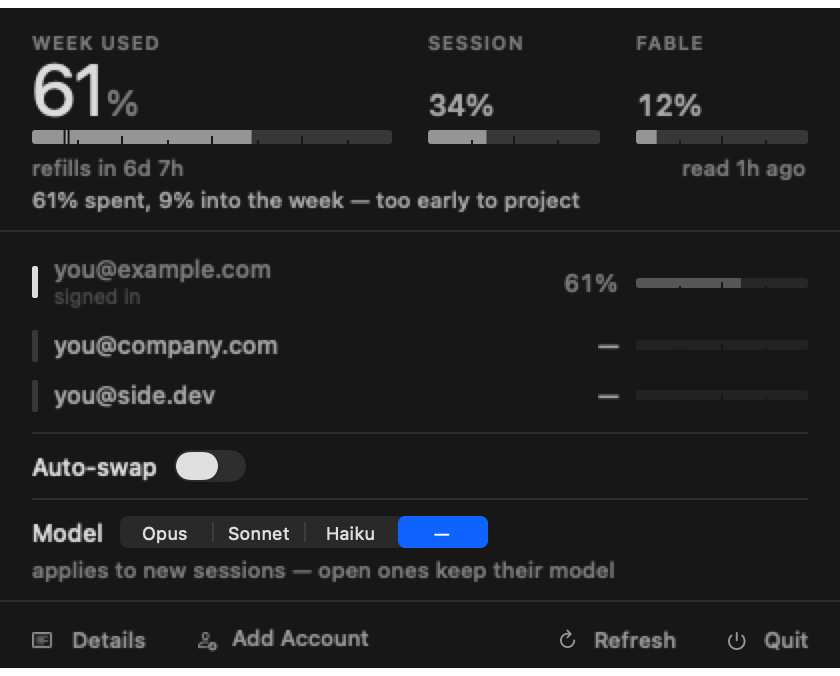
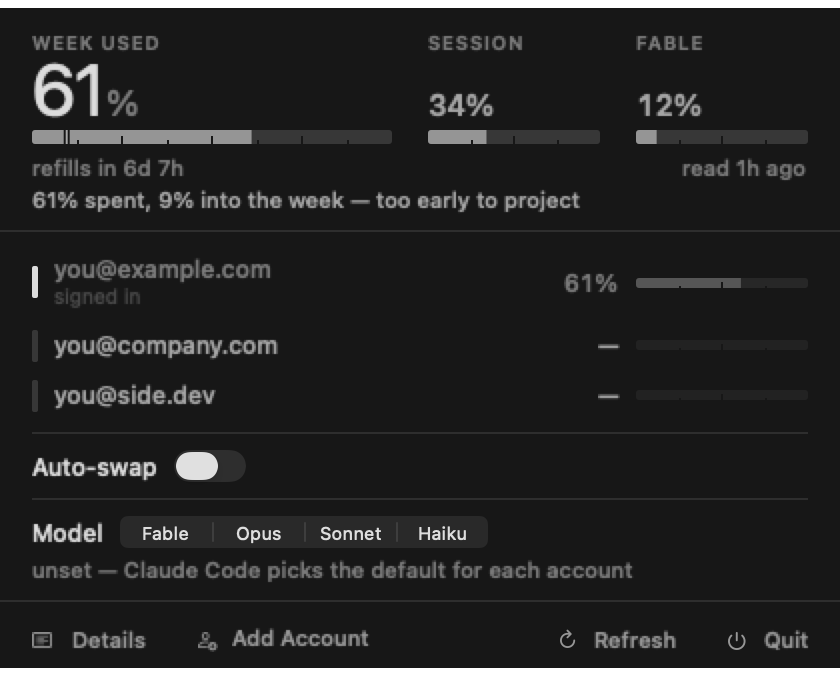
Add Fable to the model switcher
Verified entitled: additionalModelOptionsCache carries claude-fable-5[1m],
and "fable" is in the binary's alias list alongside opus/sonnet/haiku.

Also drops the placeholder chip. With no model set the picker was
rendering a selected "—" segment, which was both meaningless to click and
the only accent colour on an otherwise monochrome surface. A selection
matching no tag highlights nothing instead, and the caption names what is
actually set.

Changed region(s): [[0.031, 0.7456, 0.7738, 0.8698], [0.2786, 0.7766, 0.3405, 0.8077]]

diff --git a/Sources/Headroom/UI/PopoverView.swift b/Sources/Headroom/UI/PopoverView.swift
@@ -375,12 +375,11 @@ struct PopoverView: View {
                 ForEach(ClaudeModel.allCases, id: \.self) { model in
                     Text(model.label).tag(Optional(model))
                 }
-                // Claude Code accepts values this picker does not offer
-                // (`opusplan`, `sonnet[1m]`). Showing the real one keeps the
-                // control honest instead of reading as though nothing is set.
-                if store.model == nil {
-                    Text(store.modelRaw ?? "—").tag(ClaudeModel?.none)
-                }
+                // No option for "unset" or for a value we do not offer. A
+                // selection matching no tag simply highlights nothing, which is
+                // the honest rendering — a placeholder chip would be selectable
+                // and would mean nothing when clicked. The caption below says
+                // what is actually set.
             }
             .pickerStyle(.segmented)
             .labelsHidden()
@@ -388,10 +387,22 @@ struct PopoverView: View {
             .fixedSize()
         }
 
-        Text("applies to new sessions — open ones keep their model")
+        Text(modelCaption)
             .font(Theme.caption)
             .foregroundStyle(Theme.inkTertiary)
             .lineLimit(1)
+    }
+
+    /// Names the setting when it is one the chips cannot show, so an unhighlighted
+    /// row reads as "set to something else" rather than as broken.
+    private var modelCaption: String {
+        guard store.model == nil else {
+            return "applies to new sessions — open ones keep their model"
+        }
+        guard let raw = store.modelRaw else {
+            return "unset — Claude Code picks the default for each account"
+        }
+        return "set to \(raw) — applies to new sessions"
     }
 
     /// Says what the switch is actually doing right now, not what it does in

diff --git a/Sources/Headroom/Core/ModelSetting.swift b/Sources/Headroom/Core/ModelSetting.swift
@@ -5,14 +5,19 @@ import Foundation
 /// Aliases, never full model ids: `claude-opus-4-6-20260115` and its siblings are
 /// dated strings that go stale on every release, whereas `opus` is resolved by
 /// Claude Code at read time and keeps meaning "the newest Opus this account can
-/// reach". Claude Code accepts more than these three (`best`, `opusplan`, `fable`,
-/// and `[1m]` context variants); the switcher deliberately offers only the tiers
-/// that map to a usage decision.
+/// reach". Claude Code accepts more than these four (`best`, `opusplan`, and the
+/// `[1m]` context variants); the switcher deliberately offers only the tiers that
+/// map to a usage decision.
+///
+/// Not every account is entitled to every tier. An unentitled value is not a
+/// failure state — Claude Code falls back to the tier default and says so — so
+/// the picker offers the range rather than trying to predict the entitlement.
 enum ClaudeModel: String, CaseIterable, Sendable {
-    case opus, sonnet, haiku
+    case fable, opus, sonnet, haiku
 
     var label: String {
         switch self {
+        case .fable:  return "Fable"
         case .opus:   return "Opus"
         case .sonnet: return "Sonnet"
         case .haiku:  return "Haiku"
